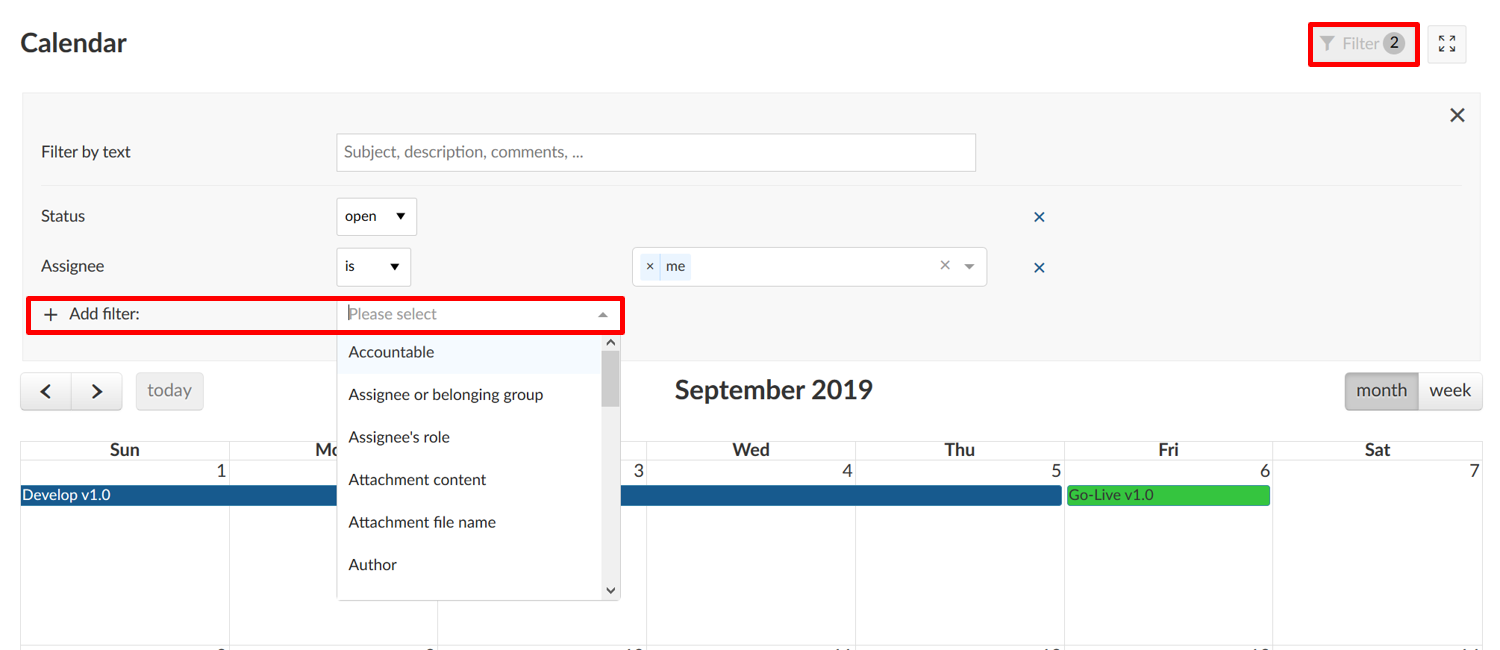
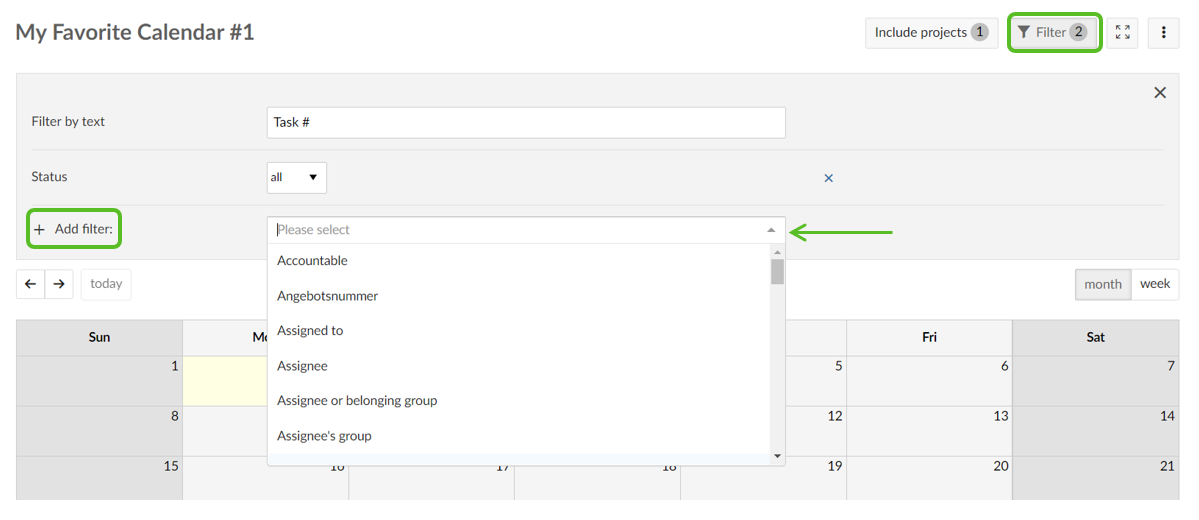
User Guise -> Calendar update
Updated instructions for "overarching calendar" for 12.1.

Updated other snapshots

diff --git a/docs/user-guide/calendar/README.md b/docs/user-guide/calendar/README.md
@@ -75,12 +75,6 @@ Click Escape (**Esc**) to leave the Zen mode.
 
 ## Project overarching calendar
 
-It is possible to display the work packages from more than one project in the calendar. However, these projects need to be sub-projects of the current project.
+It is possible to display the work packages from more than one project in the calendar. To include, or exclude such work packages, use the **Include projects** dialog, where you can select/unselect the appropriate projects and sub-projects. To automatically include all subprojects for each project you chose to select, check the **Include all sub-projects** box at the bottom of the dialog
 
-Open the filter and select subproject as filter criteria.
-
-Choose the sub-projects which you also want to display in the calendar view.
-
-![subproject-calendar](subproject-calendar.png)
-
-It is not possible to add work packages from projects which are not in a project hierarchy.
+![Select projects](select-projects.png)
